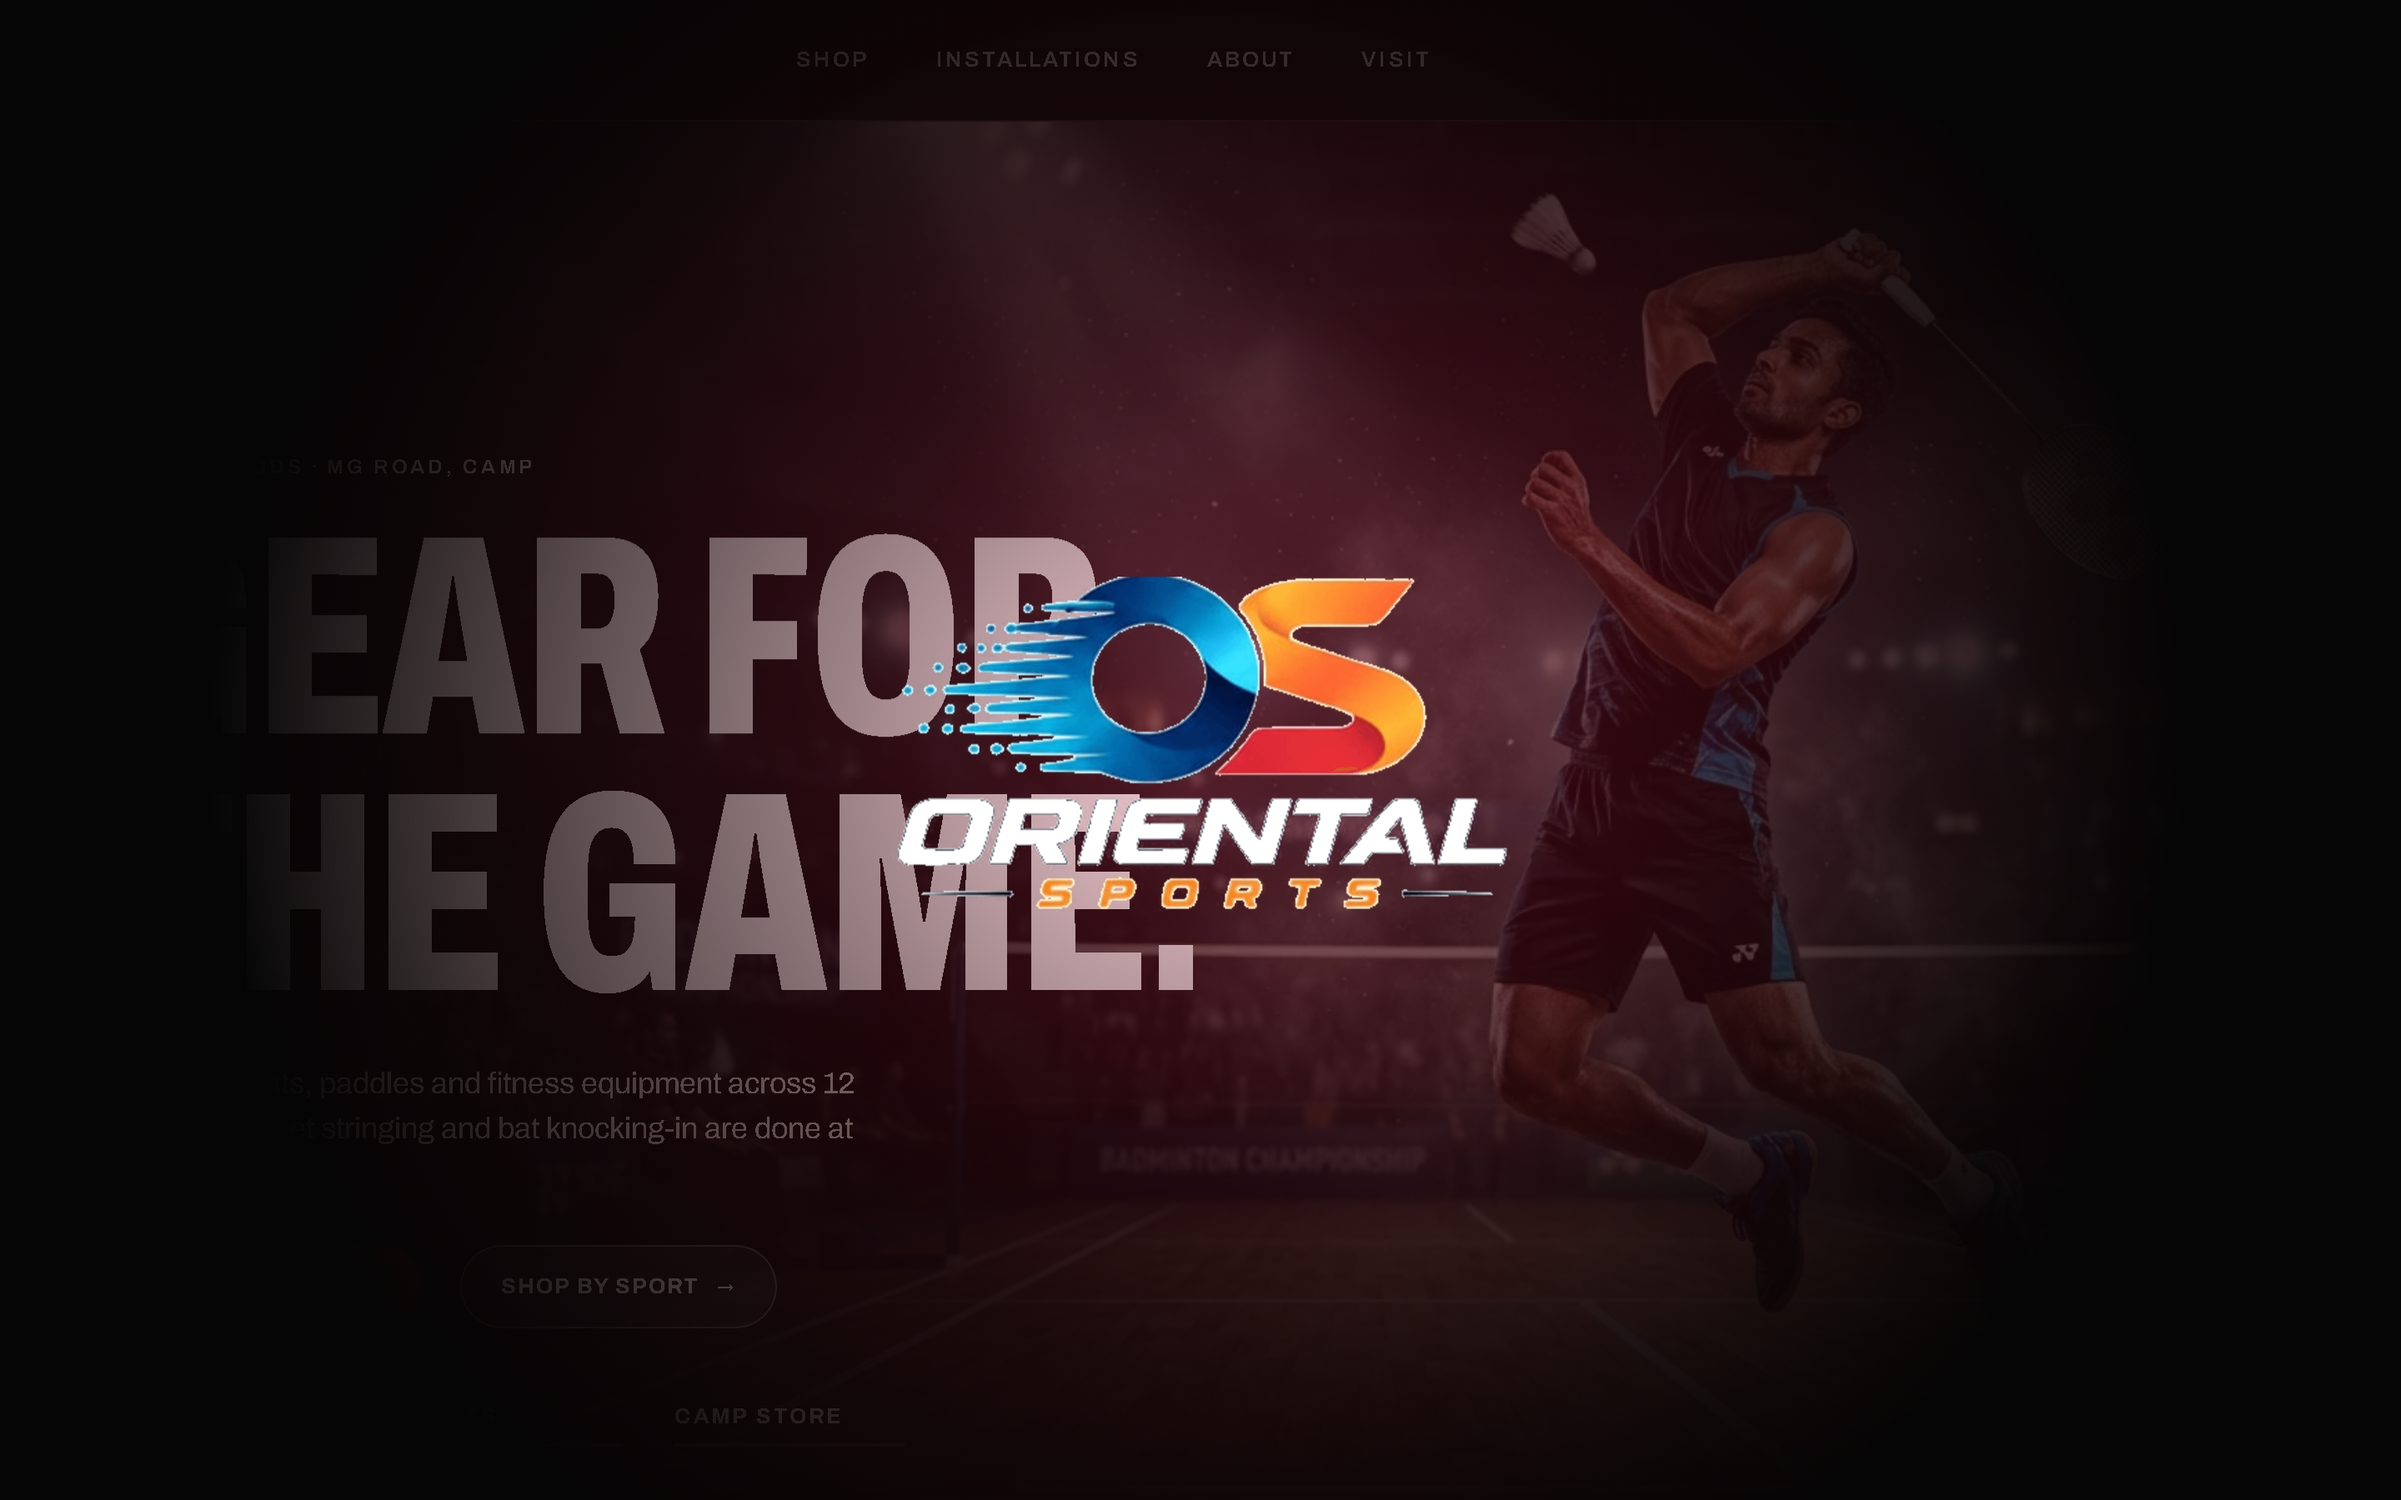
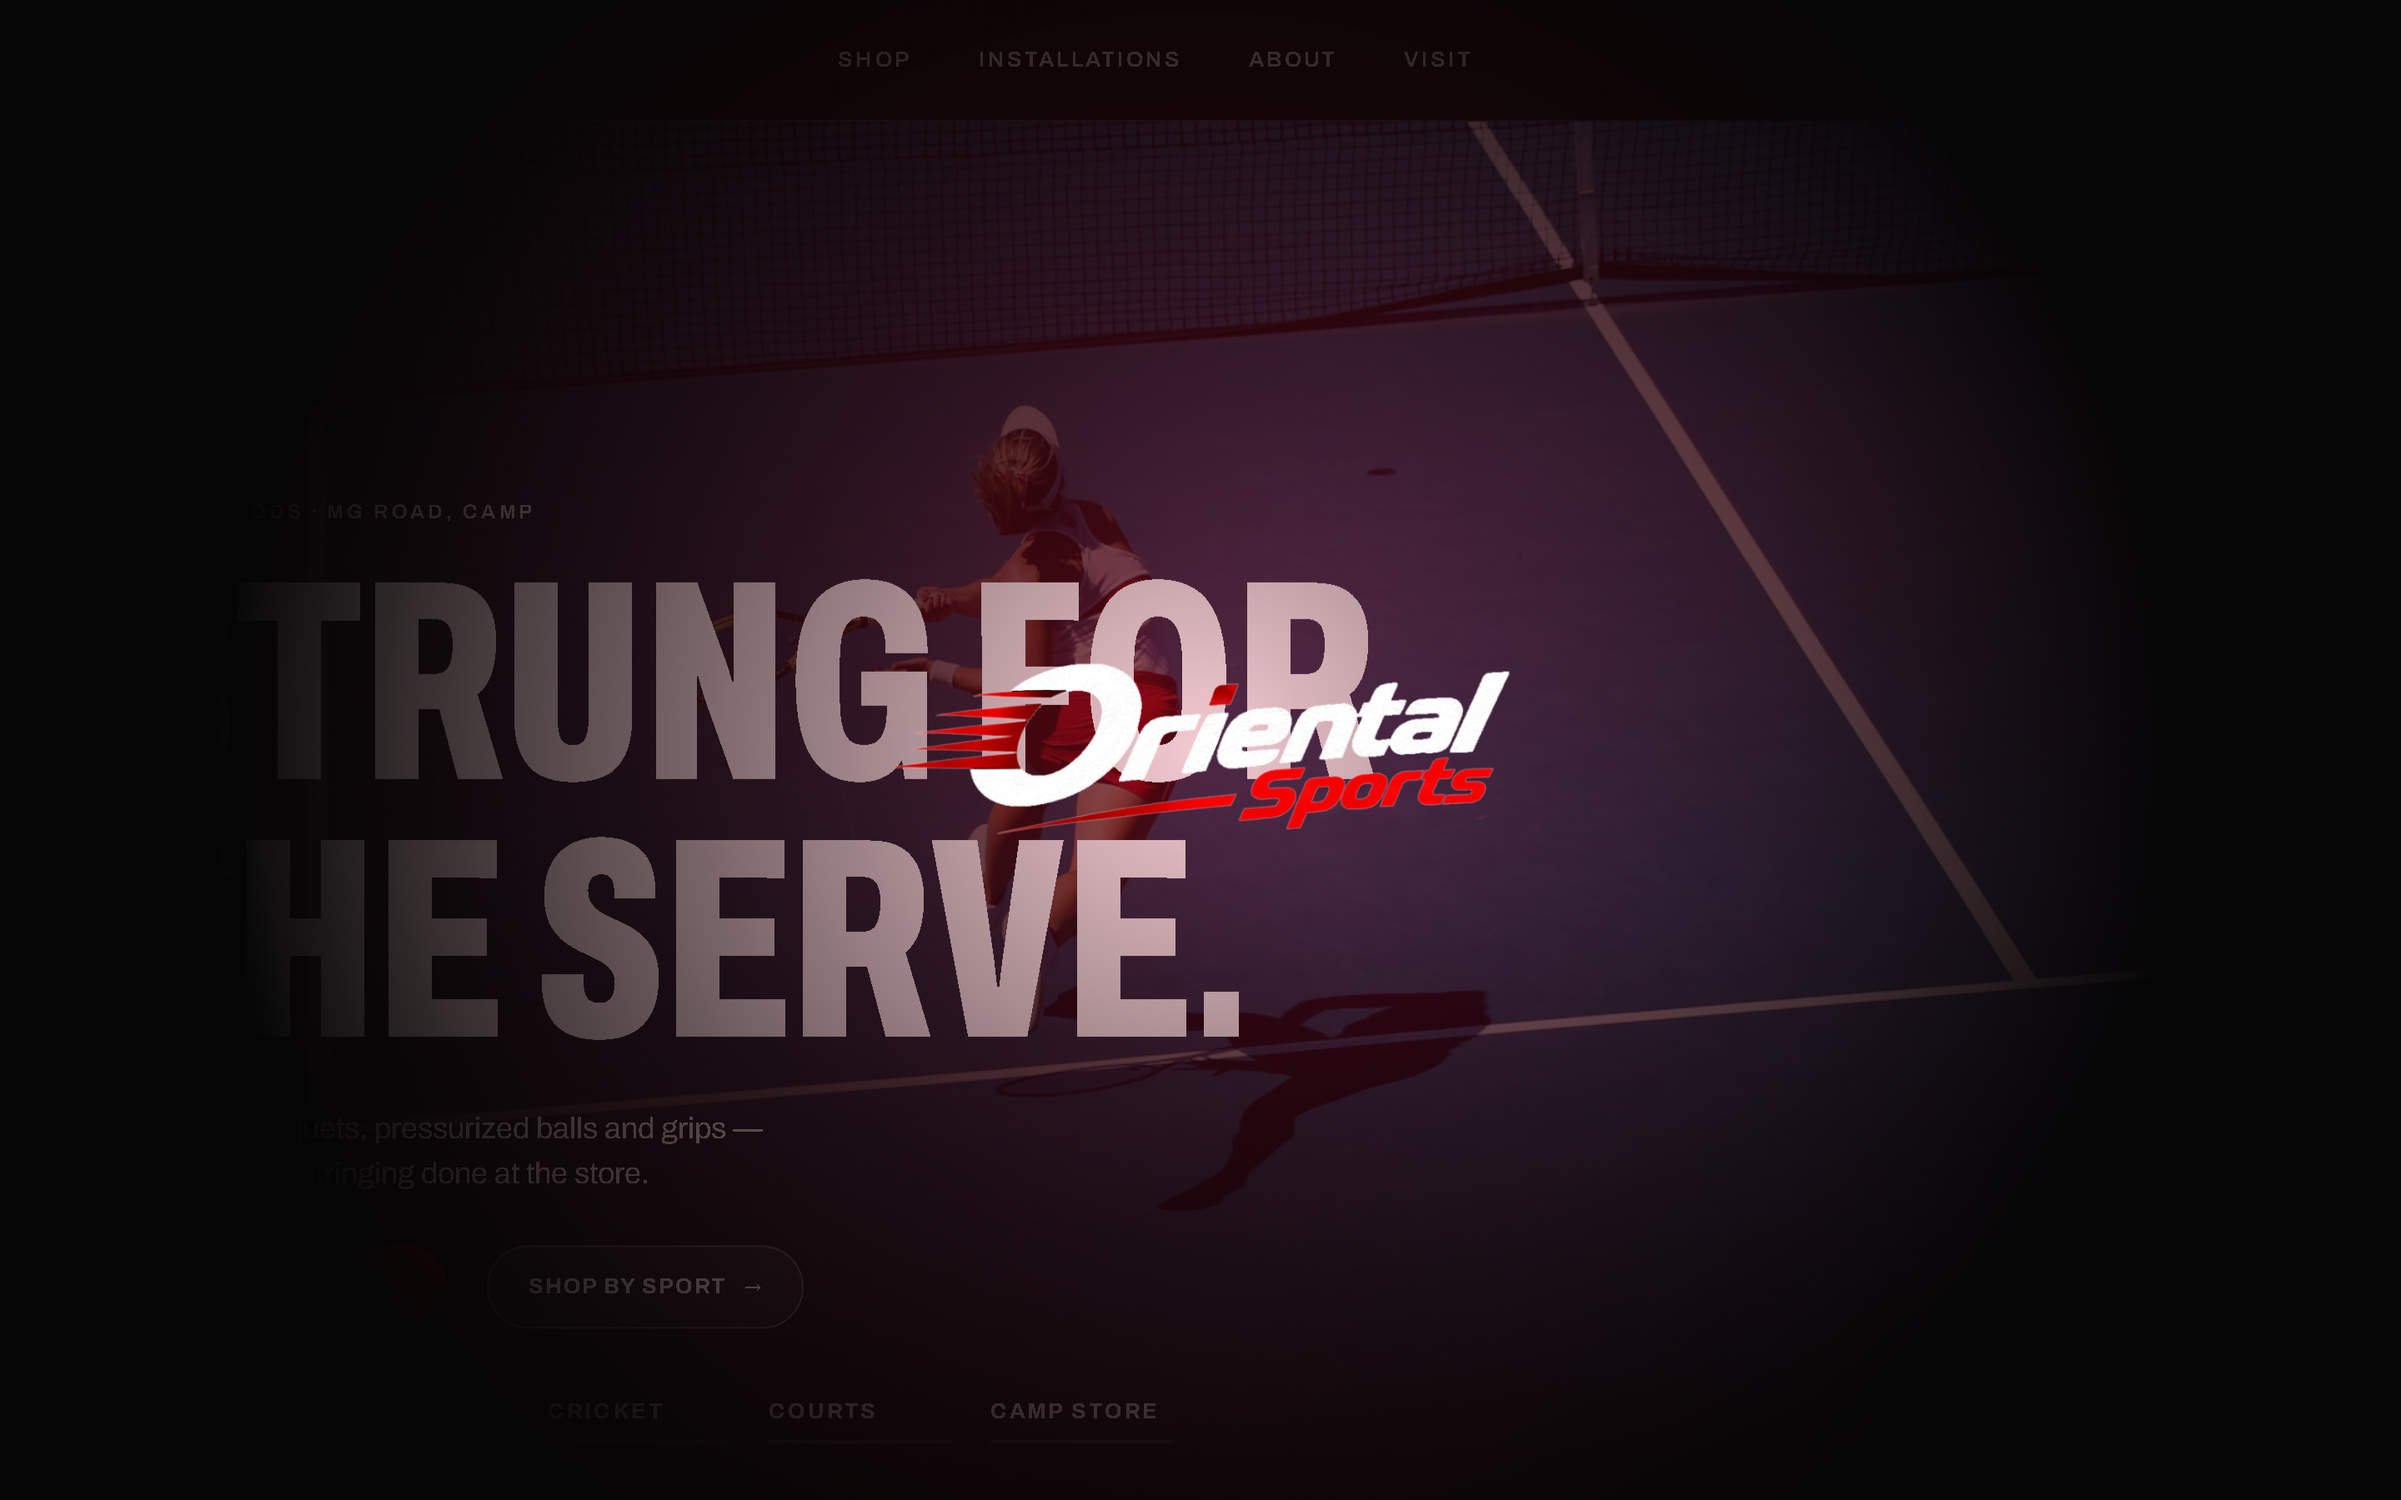
feat(home): replace Hero's single Gear slide with 3 rotating sport slides
The Hero carousel's "Gear" slide was one static badminton photo. Added
real new photography for tennis, table tennis and cricket, each getting
its own slide with sport-specific copy and a CTA that links to that
sport's actual category page (/shop/tennis, /shop/table-tennis,
/shop/cricket) - Courts and Camp store are untouched, their photos are
tied to that specific copy.

Boxing was part of the original request and dropped: this store carries
no boxing category or products (checked src/data/categories.ts and the
full product catalog), so a boxing slide's "Shop gear" CTA would send
customers to an empty search. Cricket - the store's largest category -
took its place.

Every candidate image was downloaded and visually inspected (not just
read from alt text) before use, specifically screening out tournament
banners, crowds and competitor sponsor branding that several otherwise
decent stock photos had. All three are confirmed free under the
standard Unsplash License.

Hero went from 3 slides/tabs to 5, which exposed two structural issues
fixed alongside the slide change:

- The tab bar's grid was hardcoded to exactly 3 columns
  (grid-template-columns: repeat(3, ...)). Generalized to 5. On mobile,
  5 fixed grid columns on a 320-430px screen would cram each tab past a
  readable width, so that breakpoint now scrolls the tab row
  horizontally instead (AGENTS.md: "mobile is NOT a shrunk desktop") -
  each tab keeps its full 44px touch target and a real minimum width.
[…]

diff --git a/src/components/home/Hero.tsx b/src/components/home/Hero.tsx
@@ -3,28 +3,36 @@ import { Link } from 'react-router-dom';
 import { motion, useReducedMotion } from 'framer-motion';
 import { IMAGES, MediaImage } from '../../data/media';
 import { STORE_INFO } from '../../data/storeInfo';
-import { CATEGORIES } from '../../data/categories';
 import { Img } from '../ui/Img';
 import { RevealLines, EASE_OUT } from '../motion/Reveal';
 import { useStoreStatus } from '../../utils/storeHours';
 import { MagneticButton } from '../ui/MagneticButton';
 
 /**
- * HERO — three slides, each with its own composition.
- *  gear   → photograph, headline bottom-left
- *  courts → photograph, headline top-left over the evening sky
- *  store  → light editorial split: the address set as a shop sign
+ * HERO — five slides, each with its own composition.
+ *  tennis / table-tennis / cricket → the "Gear" layout (photograph, headline
+ *                                     bottom-left), rotating through three
+ *                                     sports actually sold in-store so the
+ *                                     Gear tab isn't a single static photo
+ *  courts                          → photograph, headline top-left over the
+ *                                     evening sky
+ *  store                           → light editorial split: the address set
+ *                                     as a shop sign
  *
- * The tab bar names all three offerings at once, so the first viewport
- * always says GEAR + COURTS + where to find us. Autoplay progress is a CSS
+ * The tab bar names every slide at once. Autoplay progress is a CSS
  * animation; its end event advances the slide, so hover/focus/pause stay in
  * sync without timers. Swipe, arrow keys and a pause button are supported.
+ *
+ * Boxing was considered for this rotation (per the original request) and
+ * dropped: this store carries no boxing equipment or category, so a "Shop
+ * gear" CTA under a boxing photo would send customers to an empty search —
+ * cricket, the store's largest category, took its place instead.
  */
 
 type Action = { label: string; to?: string; href?: string };
 
 interface Slide {
-  id: 'gear' | 'courts' | 'store';
+  id: 'tennis' | 'table-tennis' | 'cricket' | 'courts' | 'store';
   tab: string;
   tabNote: string;
   eyebrow: string;
@@ -38,14 +46,36 @@ interface Slide {
 
 const SLIDES: Slide[] = [
   {
-    id: 'gear',
-    tab: 'Gear',
-    tabNote: 'Racquets, bats, paddles, fitness',
+    id: 'tennis',
+    tab: 'Tennis',
+    tabNote: 'Racquets, balls, grips, restringing',
     eyebrow: 'Sports goods · MG Road, Camp',
-    lines: ['Gear for', 'the game.'],
-    lead: `Racquets, bats, paddles and fitness equipment across ${CATEGORIES.length} sports. Racquet stringing and bat knocking-in are done at the store.`,
-    image: IMAGES.badmintonSmash,
-    primary: { label: 'Shop gear', to: '/shop' },
+    lines: ['Strung for', 'the serve.'],
+    lead: 'Tour-level racquets, pressurized balls and grips — professional restringing done at the store.',
+    image: IMAGES.heroTennisAction,
+    primary: { label: 'Shop tennis', to: '/shop/tennis' },
+    secondary: { label: 'Shop by sport', to: '/shop' },
+  },
+  {
+    id: 'table-tennis',
+    tab: 'Table tennis',
+    tabNote: 'Tables, blades, rubbers',
+    eyebrow: 'Sports goods · MG Road, Camp',
+    lines: ['Built for', 'the rally.'],
+    lead: 'ITTF-approved tournament tables, carbon blades and offensive rubbers for every level.',
+    image: IMAGES.heroTableTennisDuel,
+    primary: { label: 'Shop table tennis', to: '/shop/table-tennis' },
+    secondary: { label: 'Shop by sport', to: '/shop' },
+  },
+  {
+    id: 'cricket',
+    tab: 'Cricket',
+    tabNote: 'Bats, pads, gloves, balls',
+    eyebrow: 'Sports goods · MG Road, Camp',
+    lines: ['Willow for', 'the wicket.'],
+    lead: 'English and Kashmir willow bats, pads, gloves and match balls. Bat knocking-in done at the store.',
+    image: IMAGES.cricketStrike,
+    primary: { label: 'Shop cricket', to: '/shop/cricket' },
     secondary: { label: 'Shop by sport', to: '/shop' },
   },
   {

diff --git a/src/styles/home.css b/src/styles/home.css
@@ -91,8 +91,12 @@
   z-index: 2;
 }
 
-/* Scrims: cinematic blood-red atmosphere + dramatic contrast */
-.hero-slide--gear .hero-media::after {
+/* Scrims: cinematic blood-red atmosphere + dramatic contrast.
+   tennis/table-tennis/cricket share the former "gear" slide's treatment —
+   they're the same bottom-left-copy layout, just a rotating photo. */
+.hero-slide--tennis .hero-media::after,
+.hero-slide--table-tennis .hero-media::after,
+.hero-slide--cricket .hero-media::after {
   background:
     radial-gradient(ellipse at 80% 25%, rgba(200, 16, 46, 0.32) 0%, transparent 60%),
     linear-gradient(90deg, rgba(5, 5, 5, 0.94) 0%, rgba(5, 5, 5, 0.6) 42%, rgba(5, 5, 5, 0.1) 75%),
@@ -223,10 +227,13 @@
 }
 
 .hero-tablist {
-  flex: 0 1 clamp(280px, 46vw, 480px);
+  /* Widened from 3 tabs' worth of space to fit 5 (tennis/table tennis/
+     cricket/courts/store) without the per-tab column shrinking too far —
+     minmax(0, 1fr) columns mean this can never overflow, only get tighter. */
+  flex: 0 1 clamp(320px, 58vw, 640px);
   display: grid;
-  grid-template-columns: repeat(3, minmax(0, 1fr));
-  gap: clamp(14px, 2.2vw, 32px);
+  grid-template-columns: repeat(5, minmax(0, 1fr));
+  gap: clamp(10px, 1.6vw, 24px);
 }
 
 .hero-tab {
@@ -293,12 +300,27 @@
     min-height: var(--hero-h);
   }
   .hero-tabs { gap: 12px; }
-  .hero-tablist { flex: 1; min-width: 0; gap: 10px; }
-  .hero-tab { gap: 6px; }
+  /* 5 tabs don't fit a fixed-column grid on a 320-430px phone without
+     shrinking each one past a readable, tappable width ("mobile is NOT a
+     shrunk desktop" — AGENTS.md). Scroll horizontally instead; each tab
+     keeps a real minimum width and its full 44px touch-target height. */
+  .hero-tablist {
+    flex: 1;
+    min-width: 0;
+    display: flex;
+    gap: 18px;
+    overflow-x: auto;
+    scrollbar-width: none;
+    padding-block: 2px;
+  }
+  .hero-tablist::-webkit-scrollbar { display: none; }
+  .hero-tab { flex: 0 0 auto; min-width: 84px; gap: 6px; }
   .hero-tab-label { font-size: 0.75rem; }
   .hero-actions { gap: 12px 24px; margin-top: 22px; }
 
-  .hero-slide--gear .hero-media::after {
+  .hero-slide--tennis .hero-media::after,
+  .hero-slide--table-tennis .hero-media::after,
+  .hero-slide--cricket .hero-media::after {
     background: linear-gradient(0deg, rgba(17, 17, 17, 0.92) 0%, rgba(17, 17, 17, 0.6) 42%, rgba(17, 17, 17, 0.08) 72%);
   }
   .hero-slide--courts .hero-media::after {
@@ -319,7 +341,9 @@
 
 @media (max-width: 767px) and (max-height: 720px) {
   .hero-slide--store .hero-lead,
-  .hero-slide--gear .hero-lead { display: none; }
+  .hero-slide--tennis .hero-lead,
+  .hero-slide--table-tennis .hero-lead,
+  .hero-slide--cricket .hero-lead { display: none; }
 }
 
 @media (min-width: 768px) and (max-width: 1023px) {

diff --git a/index.html b/index.html
@@ -13,9 +13,12 @@
     <meta property="og:type" content="website" />
     <meta property="og:url" content="https://www.orientalsports.in/" />
 
-    <!-- First hero slide (LCP): small file on phones, full width on desktop -->
-    <link rel="preload" as="image" href="/images/hero/hero_train_perform.webp"
-      imagesrcset="/images/hero/hero_train_perform-sm.webp 800w, /images/hero/hero_train_perform.webp 1376w"
+    <!-- First hero slide (LCP) — must match IMAGES.heroTennisAction's unsplash()
+         URLs in src/data/media.ts exactly, or this preload fetches a resource
+         the page never requests and the real LCP image loads unpreloaded. -->
+    <link rel="preconnect" href="https://images.unsplash.com">
+    <link rel="preload" as="image" href="https://images.unsplash.com/photo-1709403552725-97e0ba206cb8?auto=format&fit=crop&w=1400&q=72"
+      imagesrcset="https://images.unsplash.com/photo-1709403552725-97e0ba206cb8?auto=format&fit=crop&w=480&q=72 480w, https://images.unsplash.com/photo-1709403552725-97e0ba206cb8?auto=format&fit=crop&w=800&q=72 800w, https://images.unsplash.com/photo-1709403552725-97e0ba206cb8?auto=format&fit=crop&w=1200&q=72 1200w, https://images.unsplash.com/photo-1709403552725-97e0ba206cb8?auto=format&fit=crop&w=1800&q=72 1800w"
       imagesizes="100vw" fetchpriority="high" />
 
     <!-- Archivo (variable width + weight): condensed black for display, normal width for text -->

diff --git a/src/data/media.ts b/src/data/media.ts
@@ -40,6 +40,11 @@ export const IMAGES = {
   pickleballNet: local('/images/categories/pickleball_category', 'Pickleball paddle and ball beside the net on a blue court', [700, 1200], '55% 70%'),
 
   // ---- Sport photography (Unsplash) -----------------------------------------
+  // Three new Hero slides (tennis, table tennis, cricket) replacing the
+  // single "Gear" slide with a rotation — each image verified by hand for a
+  // clean, dynamic action shot with no visible tournament sponsor branding.
+  heroTennisAction: unsplash('1709403552725-97e0ba206cb8', 'Female tennis player leaping to return a shot on a blue hard court', 'center 32%'),
+  heroTableTennisDuel: unsplash('1461748659110-16121c049d52', 'Two players mid-rally at a table tennis table indoors'),
   cricketStrike: unsplash('1593341646782-e0b495cff86d', 'Batsman driving a cricket ball, dust flying off the pitch', 'center 40%'),
   cricketStadium: unsplash('1540747913346-19e32dc3e97e', 'Cricket stadium under floodlights during an evening match'),
   cricketBall: unsplash('1690111354184-cceee42df518', 'Worn red leather cricket ball on grass'),

diff --git a/docs/RESPONSIVE_AUDIT.md b/docs/RESPONSIVE_AUDIT.md
@@ -1,7 +1,7 @@
 # Oriental Sports — Responsive & Zero-Overflow Audit
 
-**Audit Date**: 2026-10-27T19:32:14.142Z  
-**Target URL**: http://localhost:3000
+**Audit Date**: 2026-11-07T18:45:52.660Z  
+**Target URL**: http://localhost:3001
 
 ---
 
